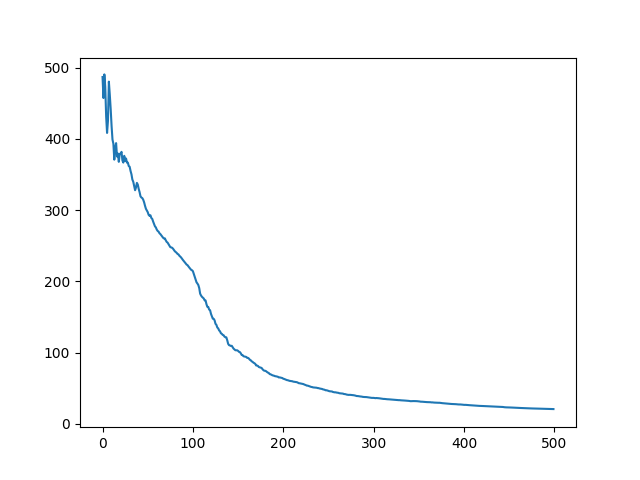
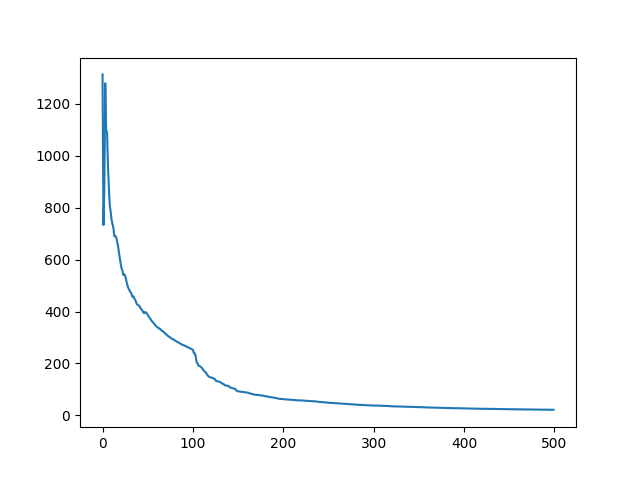
Used numpy for arrays in thin ice file
Replaced tuples

diff --git a/gymnasium_env/envs/v0_thin_ice.py b/gymnasium_env/envs/v0_thin_ice.py
@@ -1,4 +1,5 @@
 from enum import Enum
+import numpy as np
 
 # The actions that the player is capable of doing
 class PlayerActions(Enum):
@@ -6,6 +7,17 @@ class PlayerActions(Enum):
     DOWN = 1
     RIGHT = 2
     UP = 3
+
+    def get_direction(self):
+        match(self):
+            case PlayerActions.LEFT:
+                return np.array([-1, 0])
+            case PlayerActions.RIGHT:
+                return np.array([1, 0])
+            case PlayerActions.UP:
+                return np.array([0, -1])
+            case PlayerActions.DOWN:
+                return np.array([0, 1])
 
 # The different types of tiles that can be in a level
 class LevelTileType(Enum):
@@ -32,7 +44,7 @@ class LevelTileType(Enum):
                 return '?'
 
 class Tile():
-    def __init__(self, tile_type: LevelTileType, position: tuple):
+    def __init__(self, tile_type: LevelTileType, position: np.array):
         self.tile_type = tile_type
         self.position = position
     
@@ -49,21 +61,28 @@ class Level:
             for line in f.readlines():
                 row = [] # An array of tiles
                 for char in line.strip():
-                    if char == 'F':
-                        row.append(Tile(LevelTileType.FLOOR, (len(row), len(self.tiles))))
-                    elif char == 'W':
-                        row.append(Tile(LevelTileType.WALL, (len(row), len(self.tiles))))
-                    elif char == 'T':
-                        self.target = (len(row), len(self.tiles))
-                        row.append(Tile(LevelTileType.TARGET, (len(row), len(self.tiles))))
-                    elif char == '~':
-                        row.append(Tile(LevelTileType.WATER, (len(row), len(self.tiles))))
-                    elif char == 'P':
-                        self.player_start = (len(row), len(self.tiles))
-                        row.append(Tile(LevelTileType.FLOOR, (len(row), len(self.tiles))))
-                    elif char == 'B':
-                        row.append(Tile(LevelTileType.BLANK, (len(row), len(self.tiles))))
+                    tile_position = np.array([len(row), len(self.tiles)])
+                    tile_type: LevelTileType = None
+                    match char:
+                        case 'F':
+                            tile_type = LevelTileType.FLOOR
+                        case 'W':
+                            tile_type = LevelTileType.WALL
+                        case 'T':
+                            tile_type = LevelTileType.TARGET
+                            self.target = tile_position
+                        case '~':
+                            tile_type = LevelTileType.WATER
+                        case 'P':
+                            tile_type = LevelTileType.FLOOR
+                            self.player_start = tile_position
+                        case 'B':
+                            tile_type = LevelTileType.BLANK
+                        case _:
+                            tile_type = None
                     
+                    if tile_type is not None:
+                        row.append(Tile(tile_type, tile_position))
                 self.tiles.append(row)
 
     # Gets the tile at a given position, or None if out of bounds
@@ -102,19 +121,9 @@ class ThinIcePlayer:
         self.target_pos = self.level.target
     
     # Called in step function, returns True if reached target
-    def perform_action(self, action: PlayerActions) -> bool:
-        match(action):
-            case PlayerActions.LEFT:
-                new_pos = (self.player_pos[0] - 1, self.player_pos[1] )
-            case PlayerActions.RIGHT:
-                new_pos = (self.player_pos[0] + 1, self.player_pos[1])
-            case PlayerActions.UP:
-                new_pos = (self.player_pos[0], self.player_pos[1] - 1)
-            case PlayerActions.DOWN:
-                new_pos = (self.player_pos[0], self.player_pos[1] + 1)
-            case _:
-                new_pos = self.player_pos
-        
+    def perform_action(self, action: PlayerActions) -> bool:         
+        new_pos = self.player_pos + action.get_direction()
+
         # Check if the new position is valid
         tile = self.level.get_tile(new_pos)
         if tile is not None and tile.tile_type != LevelTileType.WALL:
@@ -123,7 +132,7 @@ class ThinIcePlayer:
         else:
             print("Invalid move to ", new_pos)
         
-        return self.player_pos == self.target_pos
+        return np.array_equal(self.player_pos, self.target_pos)
 
     def render(self):
         for i in range(self.level.get_num_rows()):
